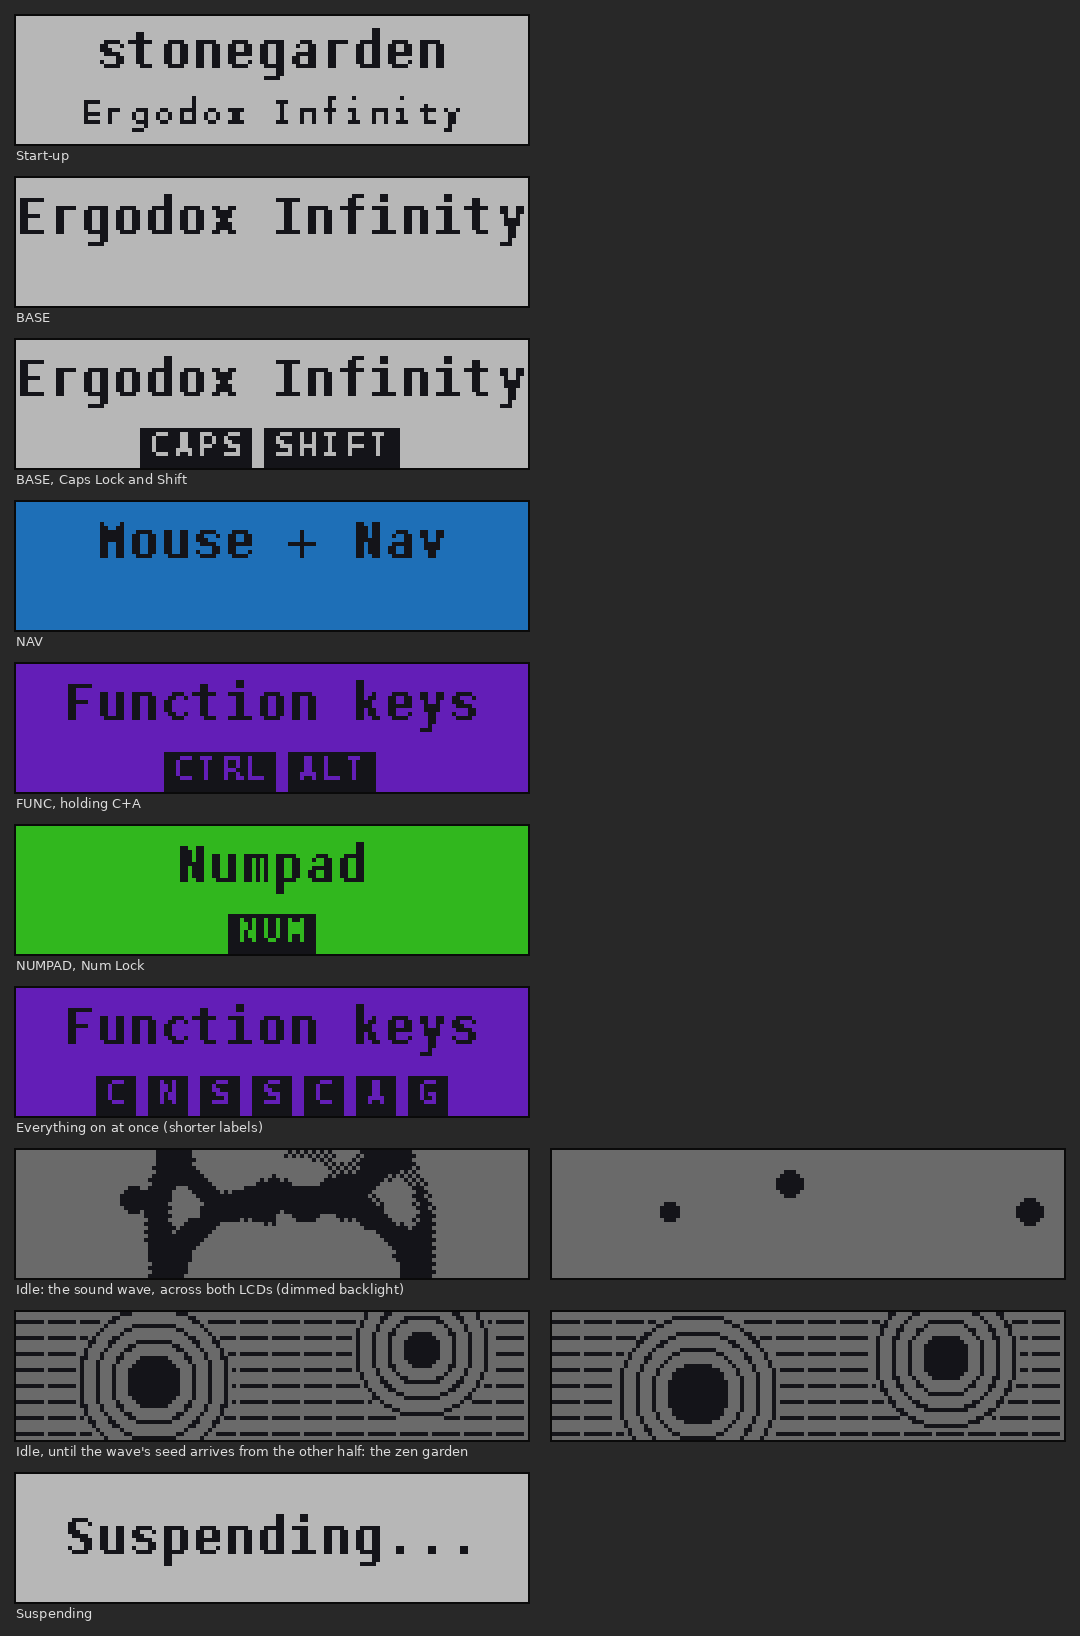
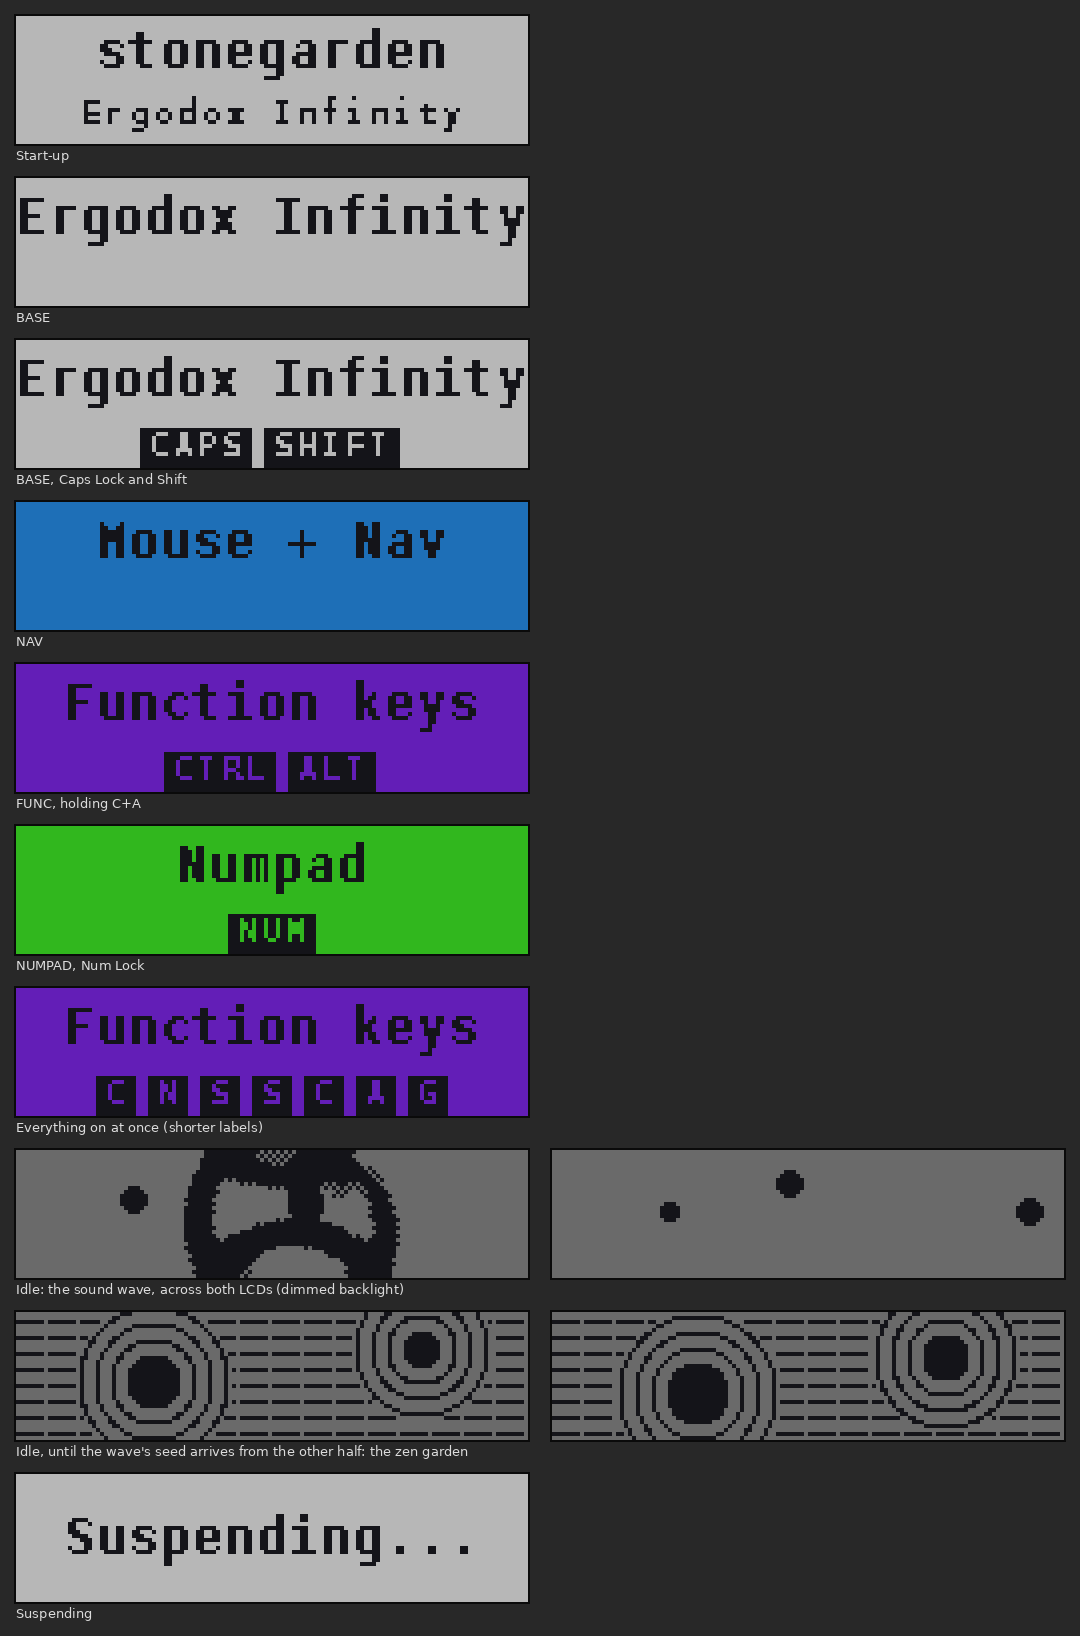
ErgoDox Infinity wave: send whole frames, and do less per frame
On the keyboard only the top-left corner of each LCD animated. QMK's
ST7565 driver sends one 32 x 8 block per main-loop pass, after
st7565_task_user. When a frame took longer than the 50 ms update
interval, the next frame started on the very next pass, redrew
everything and marked it dirty again, so only the first block (top left)
was ever sent. The simulation itself is fine: 11 simulated minutes with
six seeds stay bounded.

- Send the whole frame (all 16 blocks) right after drawing it.
- Step at most 20 ms per frame, and 20 steps a second instead of 30
  (drops every 60-140 steps, still 3 to 7 seconds).
- Skip the disk checks away from the disks: a near_wall bitmap marks the
  cells next to one, every other cell takes a fast path. The output is
  byte-identical to checking every cell.
- Draw the wave a byte (8 pixels) at a time instead of pixel by pixel.
- Don't simulate while the LCD is off (QMK keeps calling the task), and
  count steps in 32 bits (16 would wrap after 55 minutes).

Changed region(s): [[0.1222, 0.6858, 0.4278, 0.7793]]

diff --git a/keyboards/ergodox/lcd_wave.c b/keyboards/ergodox/lcd_wave.c
@@ -43,16 +43,17 @@
 
 static int16_t  wave_a[WAVE_H][WAVE_W], wave_b[WAVE_H][WAVE_W];
 static int16_t (*u)[WAVE_W] = wave_a, (*u_prev)[WAVE_W] = wave_b;
-static uint8_t  walls[WAVE_H][WAVE_W / 8]; // one bit per cell, set inside the disks
+static uint8_t  walls[WAVE_H][WAVE_W / 8];     // one bit per cell, set inside the disks
+static uint8_t  near_wall[WAVE_H][WAVE_W / 8]; // set on and next to the disks: cells that need checks
 static uint32_t rng;
-static uint16_t step_count, next_drop;
+static uint32_t step_count, next_drop;
 
 #define DISKS_MAX 5   // obstacles: 1 to 5 disks, radius 2 to 4
 #define WAVE_VISCOSITY 16 // viscosity nu = 1/16 (0: none; 1/4 is already unstable), see lcd_wave_step
 #define WAVE_CREST 450    // crests above this are solid, above 2/3 of it a checkerboard
 #define DROP_AMPLITUDE 8000 // strong enough to stay above WAVE_CREST as the waves spread
-#define DROP_MIN_STEPS 90   // between drops: 3 to 7 seconds at 30 steps a second
-#define DROP_MAX_STEPS 210
+#define DROP_MIN_STEPS 60   // between drops: 3 to 7 seconds at 20 steps a second
+#define DROP_MAX_STEPS 140
 
 static uint32_t random32(void) { // xorshift32
     rng ^= rng << 13;
@@ -69,10 +70,20 @@ static bool is_wall(int x, int y) {
     return walls[y][x >> 3] & (1 << (x & 7));
 }
 
-static void set_wall(int x, int y) {
+static void set_bit(uint8_t (*bits)[WAVE_W / 8], int x, int y) {
     if (x >= 0 && x < WAVE_W && y >= 0 && y < WAVE_H) {
-        walls[y][x >> 3] |= 1 << (x & 7);
+        bits[y][x >> 3] |= 1 << (x & 7);
     }
+}
+
+static void set_wall(int x, int y) {
+    set_bit(walls, x, y);
+    // The cell and its four neighbours need the slow path in lcd_wave_step.
+    set_bit(near_wall, x, y);
+    set_bit(near_wall, x - 1, y);
+    set_bit(near_wall, x + 1, y);
+    set_bit(near_wall, x, y - 1);
+    set_bit(near_wall, x, y + 1);
 }
 
 // A drop: a smooth bump (about a Gaussian, radius 2) added around (cx, cy).
@@ -99,6 +110,7 @@ void lcd_wave_start(uint32_t seed) {
     memset(wave_a, 0, sizeof(wave_a));
     memset(wave_b, 0, sizeof(wave_b));
     memset(walls, 0, sizeof(walls));
+    memset(near_wall, 0, sizeof(near_wall));
     u = wave_a, u_prev = wave_b;
     step_count = 0;
 
@@ -133,27 +145,36 @@ static int16_t old_above[WAVE_W], old_here[WAVE_W];
 
 void lcd_wave_step(void) {
     // The inside of the grid. A disk's cells count as the cell's own value (no flow into the disk);
-    // the disks keep away from the edges, so the edge cells needn't be checked.
+    // the disks keep away from the edges, so the edge cells needn't be checked. Cells away from the
+    // disks, nearly all of them, take a fast path without the checks.
     memcpy(old_above, u_prev[0], sizeof(old_above));
     for (int y = 1; y < WAVE_H - 1; y++) {
         memcpy(old_here, u_prev[y], sizeof(old_here));
+        const int16_t *above = u[y - 1], *row = u[y], *below = u[y + 1], *old_below = u_prev[y + 1];
         for (int x = 1; x < WAVE_W - 1; x++) {
-            if (is_wall(x, y)) {
+            int32_t here = row[x], next;
+            if (!(near_wall[y][x >> 3] & (1 << (x & 7)))) {
+                next = (above[x] + below[x] + row[x - 1] + row[x + 1]) / 4 + here - old_here[x];
+#if WAVE_VISCOSITY > 0
+                // Viscosity: nu * laplacian of the velocity (u - u_prev). Like air, it damps short
+                // wavelengths much more than long ones, so the grid's pixel-scale ripples die out
+                // while the wavefronts carry on.
+                int32_t lap_v = (above[x] - old_above[x]) + (below[x] - old_below[x]) + (row[x - 1] - old_here[x - 1]) + (row[x + 1] - old_here[x + 1]) - 4 * (here - old_here[x]);
+                next += lap_v / WAVE_VISCOSITY;
+#endif
+            } else if (is_wall(x, y)) {
                 u_prev[y][x] = 0;
                 continue;
-            }
-            bool    n = !is_wall(x, y - 1), s = !is_wall(x, y + 1), w = !is_wall(x - 1, y), e = !is_wall(x + 1, y);
-            int32_t here = u[y][x];
-            int32_t sum  = (n ? u[y - 1][x] : here) + (s ? u[y + 1][x] : here) + (w ? u[y][x - 1] : here) + (e ? u[y][x + 1] : here);
-            int32_t next = sum / 4 + here - old_here[x];
+            } else {
+                // Next to a disk: its cells count as this cell's own value.
+                bool n = !is_wall(x, y - 1), s = !is_wall(x, y + 1), w = !is_wall(x - 1, y), e = !is_wall(x + 1, y);
+                next = ((n ? above[x] : here) + (s ? below[x] : here) + (w ? row[x - 1] : here) + (e ? row[x + 1] : here)) / 4 + here - old_here[x];
 #if WAVE_VISCOSITY > 0
-            // Viscosity: nu * laplacian of the velocity (u - u_prev). Like air, it damps short
-            // wavelengths much more than long ones, so the grid's pixel-scale ripples die out while
-            // the wavefronts carry on.
-            int32_t v     = here - old_here[x];
-            int32_t lap_v = (n ? u[y - 1][x] - old_above[x] : v) + (s ? u[y + 1][x] - u_prev[y + 1][x] : v) + (w ? u[y][x - 1] - old_here[x - 1] : v) + (e ? u[y][x + 1] - old_here[x + 1] : v) - 4 * v;
-            next += lap_v / WAVE_VISCOSITY;
+                int32_t v     = here - old_here[x];
+                int32_t lap_v = (n ? above[x] - old_above[x] : v) + (s ? below[x] - old_below[x] : v) + (w ? row[x - 1] - old_here[x - 1] : v) + (e ? row[x + 1] - old_here[x + 1] : v) - 4 * v;
+                next += lap_v / WAVE_VISCOSITY;
 #endif
+            }
             next -= next / 1024; // a trace of damping, for what integer rounding leaves behind
             u_prev[y][x] = clamp16(next); // u_prev isn't needed any more, so it takes the new step
         }
@@ -177,28 +198,27 @@ void lcd_wave_step(void) {
     }
 }
 
-uint16_t lcd_wave_steps(void) {
+uint32_t lcd_wave_steps(void) {
     return step_count;
 }
 
 void lcd_draw_wave(uint8_t half) {
-    // Crests dark, troughs and calm water light. (A 16-level dither made the low ripples show up as
-    // scattered dots; two levels give soft edges and clean calm water.)
-    st7565_clear();
+    // Crests dark, troughs and calm water light: crests above WAVE_CREST solid, a band below them as
+    // a checkerboard, for soft edges without the scattered dots a finer dither made of the faint
+    // ripples. Written a byte (8 rows of a column) at a time, as the LCD stores them.
     const int x0 = half * LCD_WIDTH;
-    for (int y = 0; y < LCD_HEIGHT; y++) {
+    for (int page = 0; page < LCD_HEIGHT / 8; page++) {
         for (int x = 0; x < LCD_WIDTH; x++) {
-            int gx = x0 + x;
-            if (is_wall(gx, y)) {
-                st7565_write_pixel(x, y, true);
-                continue;
+            int     gx   = x0 + x;
+            uint8_t byte = 0;
+            for (int bit = 0; bit < 8; bit++) {
+                int     y = page * 8 + bit;
+                int16_t h = u[y][gx];
+                if (is_wall(gx, y) || h > WAVE_CREST || (h > WAVE_CREST * 2 / 3 && ((gx + y) & 1) == 0)) {
+                    byte |= 1 << bit;
+                }
             }
-            // Crests above WAVE_CREST solid, a band below them as a checkerboard: soft edges without
-            // the scattered dots a finer dither made of the faint ripples.
-            int16_t h = u[y][gx];
-            if (h > WAVE_CREST || (h > WAVE_CREST * 2 / 3 && ((gx + y) & 1) == 0)) {
-                st7565_write_pixel(x, y, true);
-            }
+            st7565_write_raw_byte(byte, page * LCD_WIDTH + x);
         }
     }
 }

diff --git a/keyboards/ergodox/keymap.c b/keyboards/ergodox/keymap.c
@@ -210,7 +210,8 @@ static const layer_style_t layer_styles[] = {
 #    define LCD_IDLE_MS 30000       // without key presses before the idle animation starts
 #    define LCD_IDLE_FRAME_MS 250   // per frame of the zen garden (shown until the wave starts)
 #    define LCD_IDLE_DIM_MS 2000    // how long the backlight takes to dim when idle
-#    define LCD_WAVE_STEP_MS 33     // per step of the wave simulation: 30 steps a second
+#    define LCD_WAVE_STEP_MS 50     // per step of the wave simulation: 20 steps a second
+#    define LCD_WAVE_BUDGET_MS 20   // at most this long stepping per frame, so the LCD and keys keep up
 
 // Backlight colour, 0-255 per channel, shown at the half brightness QMK uses for these LCDs.
 static uint8_t  lcd_rgb[3], fade_from[3], fade_to[3];
@@ -263,8 +264,7 @@ static uint8_t  shown_layer = UINT8_MAX, shown_indicators;
  * transport's thread, so it only stores it here; its main loop starts the wave.
  */
 static bool              wave_running;
-static uint32_t          wave_start;
-static uint16_t          wave_drawn;
+static uint32_t          wave_start, wave_drawn;
 static volatile bool     wave_seed_received;
 static volatile uint32_t wave_seed;
 
@@ -279,18 +279,29 @@ static void wave_begin(uint32_t seed) {
     lcd_wave_start(seed);
     wave_running = true;
     wave_start   = timer_read32();
-    wave_drawn   = UINT16_MAX;
+    wave_drawn   = UINT32_MAX;
+}
+
+// QMK's ST7565 driver sends one 32 x 8 block per main-loop pass, after st7565_task_user. A frame
+// that redraws everything and takes longer than ST7565_UPDATE_INTERVAL would have the next one start
+// before the rest is sent, leaving only the first block (top left) updating, so send it all now.
+static void lcd_send_frame(void) {
+    for (int i = 0; i < ST7565_BLOCK_COUNT; i++) {
+        st7565_render();
+    }
 }
 
 static void wave_task(void) {
-    // Catch up with the clock, a few steps at a time so the keyboard stays responsive.
+    // Catch up with the clock, but not for longer than LCD_WAVE_BUDGET_MS in one frame.
     uint32_t target = timer_elapsed32(wave_start) / LCD_WAVE_STEP_MS;
-    for (int i = 0; i < 4 && lcd_wave_steps() < target; i++) {
+    uint16_t begun  = timer_read();
+    while (lcd_wave_steps() < target && timer_elapsed(begun) < LCD_WAVE_BUDGET_MS) {
         lcd_wave_step();
     }
     if (lcd_wave_steps() != wave_drawn) {
         wave_drawn = lcd_wave_steps();
         lcd_draw_wave(is_keyboard_left() ? 0 : 1);
+        lcd_send_frame();
     }
 }
 
@@ -328,6 +339,9 @@ void st7565_task_user(void) {
     // they start the animation together and keep roughly the same frame.
     uint32_t quiet = last_input_activity_elapsed();
     if (quiet >= LCD_IDLE_MS) {
+        if (!st7565_is_on()) {
+            return; // timed out: QMK still calls this, but there's nothing to animate for
+        }
         if (!idle) {
             idle = true;
             lcd_fade_to_layer(LCD_IDLE_DIM_MS, true);
@@ -349,6 +363,7 @@ void st7565_task_user(void) {
             if (frame != idle_frame) {
                 idle_frame = frame;
                 lcd_draw_idle(is_keyboard_left() ? 0 : 1, frame);
+                lcd_send_frame();
             }
         }
         return;

diff --git a/scripts/lcd_preview/preview.c b/scripts/lcd_preview/preview.c
@@ -23,6 +23,11 @@ void st7565_write_pixel(uint8_t x, uint8_t y, bool on) {
     pixels[y][x] = on;
 }
 
+// As the LCD stores them: byte `index` is column index % 128 of rows 8 * (index / 128) to + 7.
+void st7565_write_raw_byte(const char data, uint16_t index) {
+    for (int bit = 0; bit < 8; bit++) pixels[index / LCD_WIDTH * 8 + bit][index % LCD_WIDTH] = (data >> bit) & 1;
+}
+
 static void dump(const char *name, unsigned rgb) {
     printf("%s %06x %d\n", name, rgb, LCD_WIDTH);
     for (int y = 0; y < LCD_HEIGHT; y++) {
@@ -49,7 +54,7 @@ int main(int argc, char **argv) {
     const unsigned white = 0xffffff, blue = 0x0087ff, purple = 0x7400ff, green = 0x20ff00, dim = 0x808080;
 
     if (argc > 1 && strcmp(argv[1], "wave") == 0) {
-        // Both LCDs side by side, every other step for 8 seconds at 30 steps a second.
+        // Both LCDs side by side, every other step for 12 seconds at 20 steps a second.
         static unsigned char both[LCD_HEIGHT][2 * LCD_WIDTH];
         lcd_wave_start(1); // a seed that places five disks
         for (int frame = 0; frame < 120; frame++) {
@@ -57,7 +62,7 @@ int main(int argc, char **argv) {
                 lcd_draw_wave(half);
                 for (int y = 0; y < LCD_HEIGHT; y++) memcpy(&both[y][half * LCD_WIDTH], pixels[y], LCD_WIDTH);
             }
-            printf("Wave, step %u %06x %d\n", lcd_wave_steps(), 0x808080, 2 * LCD_WIDTH);
+            printf("Wave, step %u %06x %d\n", (unsigned)lcd_wave_steps(), 0x808080, 2 * LCD_WIDTH);
             for (int y = 0; y < LCD_HEIGHT; y++) {
                 for (int x = 0; x < 2 * LCD_WIDTH; x++) putchar('0' + both[y][x]);
                 putchar('\n');
@@ -97,7 +102,7 @@ int main(int argc, char **argv) {
     {
         static unsigned char both[LCD_HEIGHT][2 * LCD_WIDTH];
         lcd_wave_start(1); // a seed that places five disks
-        for (int i = 0; i < 70; i++) lcd_wave_step();
+        for (int i = 0; i < 50; i++) lcd_wave_step();
         for (int half = 0; half < 2; half++) {
             lcd_draw_wave(half);
             for (int y = 0; y < LCD_HEIGHT; y++) memcpy(&both[y][half * LCD_WIDTH], pixels[y], LCD_WIDTH);

diff --git a/keyboards/ergodox/lcd.h b/keyboards/ergodox/lcd.h
@@ -5,8 +5,9 @@
 #include <stdint.h>
 
 /*
- * ErgoDox Infinity LCD screens (128 x 32). The drawing only uses st7565_clear() and
- * st7565_write_pixel(), so scripts/lcd_preview.c can render the same code to images.
+ * ErgoDox Infinity LCD screens (128 x 32). The drawing only uses st7565_clear(),
+ * st7565_write_pixel() and st7565_write_raw_byte(), so scripts/lcd_preview can render the same code
+ * to images.
  */
 
 #define LCD_WIDTH 128
@@ -35,7 +36,7 @@ void lcd_draw_idle(uint8_t half, uint16_t frame);
 // it, then draw a half.
 void     lcd_wave_start(uint32_t seed);
 void     lcd_wave_step(void);
-uint16_t lcd_wave_steps(void);
+uint32_t lcd_wave_steps(void);
 void     lcd_draw_wave(uint8_t half);
 
 // Start-up and suspend screens.

diff --git a/scripts/lcd_preview/st7565.h b/scripts/lcd_preview/st7565.h
@@ -6,3 +6,4 @@
 
 void st7565_clear(void);
 void st7565_write_pixel(uint8_t x, uint8_t y, bool on);
+void st7565_write_raw_byte(const char data, uint16_t index);

diff --git a/keyboards/ergodox/README.md b/keyboards/ergodox/README.md
@@ -179,7 +179,7 @@ Then connect the halves and plug the left half into the computer. If you'd rathe
 ![The sound wave across both LCDs](lcd_wave.gif)
 
 The wave really is simulated: `lcd_wave.c` solves the 2D wave equation with the usual explicit finite-difference scheme,
-in integers, 30 steps a second on a 256 x 32 grid (one cell per pixel, both LCDs).
+in integers, 20 steps a second on a 256 x 32 grid (one cell per pixel, both LCDs).
 
 * **The disks** (1 to 5, radius 2 to 4 pixels, at random places) are rigid: no flow into them (a Neumann boundary), so
   waves reflect off them as off a solid object.
